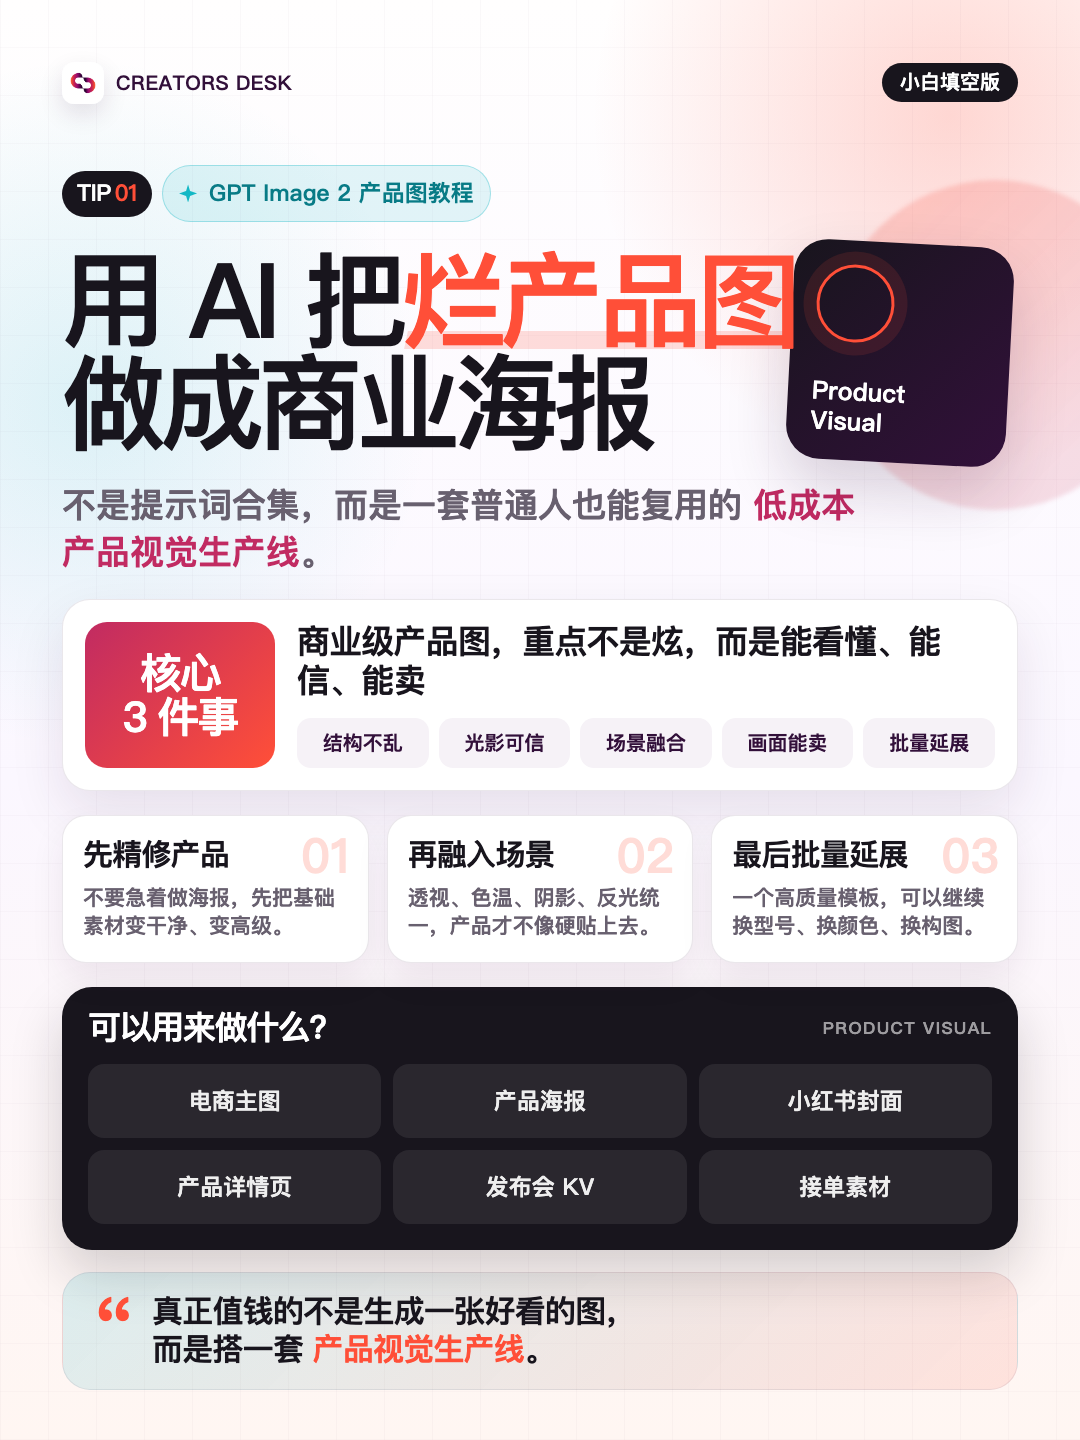
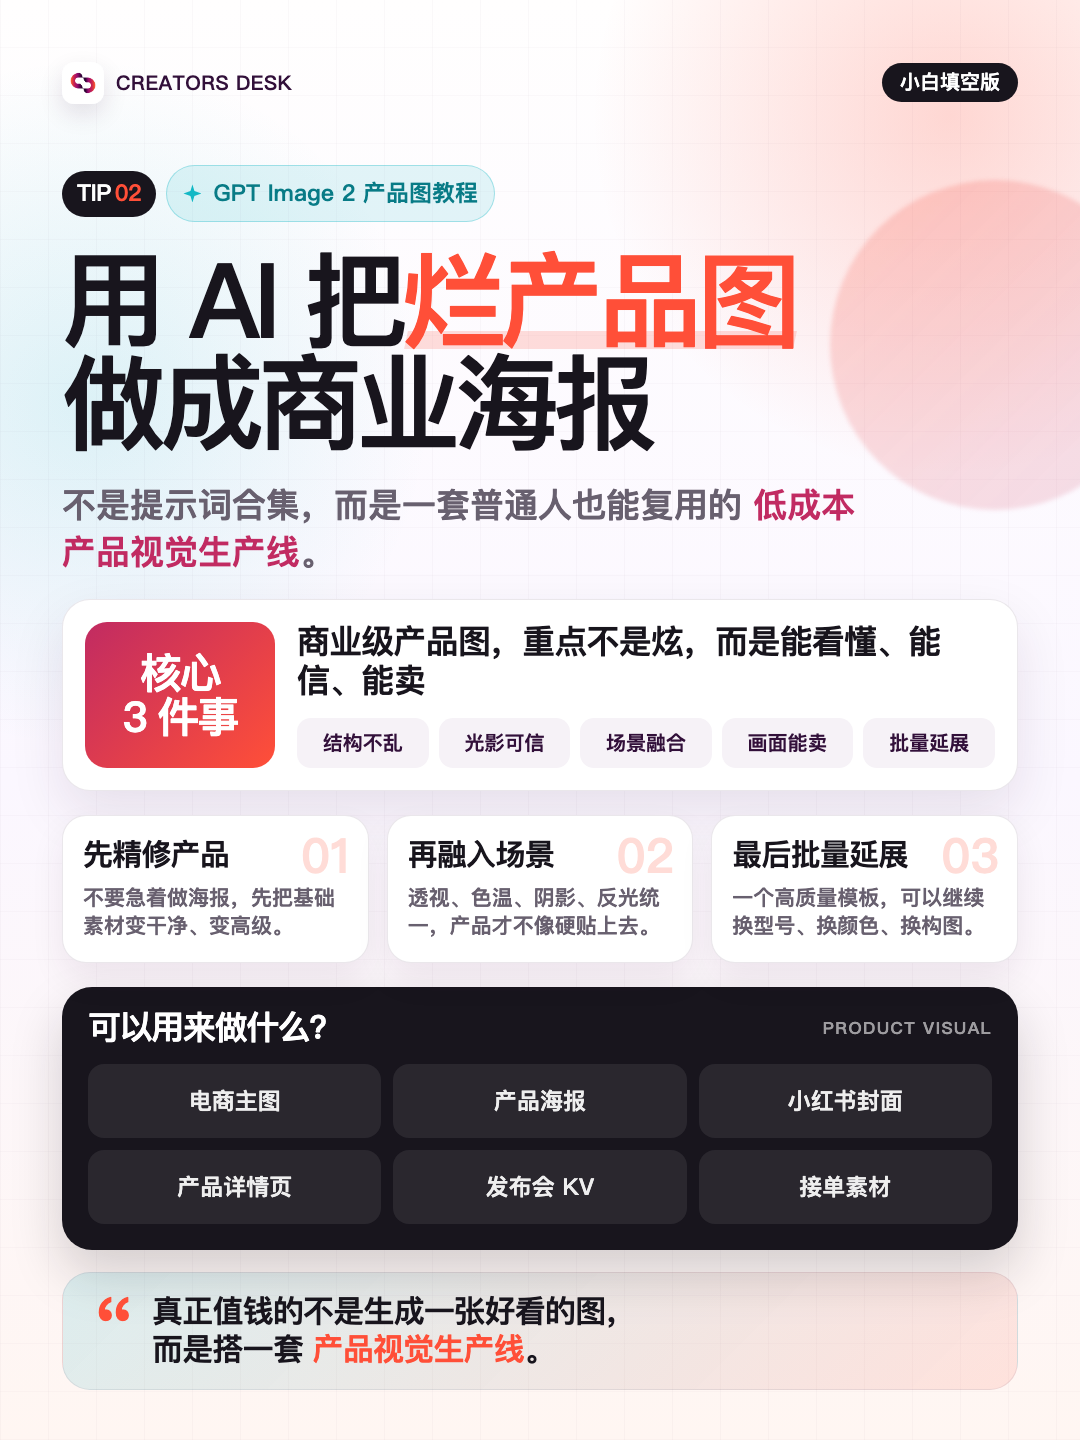
Update product visual cover to tip 02

Changed region(s): [[0.7028, 0.1562, 0.9472, 0.3438], [0.1222, 0.125, 0.4583, 0.1562]]

diff --git a/social-card-specimen-prompt/research-cover.html b/social-card-specimen-prompt/research-cover.html
@@ -173,35 +173,6 @@
       color: var(--muted);
     }
     .subtitle strong { color: var(--pink); }
-    .visual-note {
-      position: absolute;
-      right: 8px;
-      top: 132px;
-      width: 220px;
-      height: 220px;
-      border-radius: 34px;
-      background:
-        linear-gradient(135deg, #18151d, #32103a);
-      color: #fff;
-      padding: 24px;
-      display: grid;
-      align-content: space-between;
-      transform: rotate(3deg);
-      box-shadow: 0 28px 60px rgba(50,16,58,.18);
-    }
-    .visual-note::before {
-      content: "";
-      width: 72px;
-      height: 72px;
-      border-radius: 50%;
-      border: 3px solid var(--hot);
-      box-shadow: inset 0 0 0 18px transparent, 0 0 0 13px rgba(255,79,56,.12);
-    }
-    .visual-note span {
-      font-size: 25px;
-      line-height: 1.18;
-      font-weight: 900;
-    }
     .replace {
       border-radius: 28px;
       background: #fff;
@@ -390,10 +361,9 @@
 
       <section class="hero">
         <div class="eyebrow-wrap">
-          <div class="tip-chip">TIP <span>01</span></div>
+          <div class="tip-chip">TIP <span>02</span></div>
           <div class="eyebrow"><span class="spark"></span>GPT Image 2 产品图教程</div>
         </div>
-        <div class="visual-note"><span>Product<br>Visual</span></div>
         <h1>用 AI 把<span class="hot">烂产品图</span><br>做成商业海报</h1>
         <p class="subtitle">不是提示词合集，而是一套普通人也能复用的 <strong>低成本产品视觉生产线</strong>。</p>
       </section>
